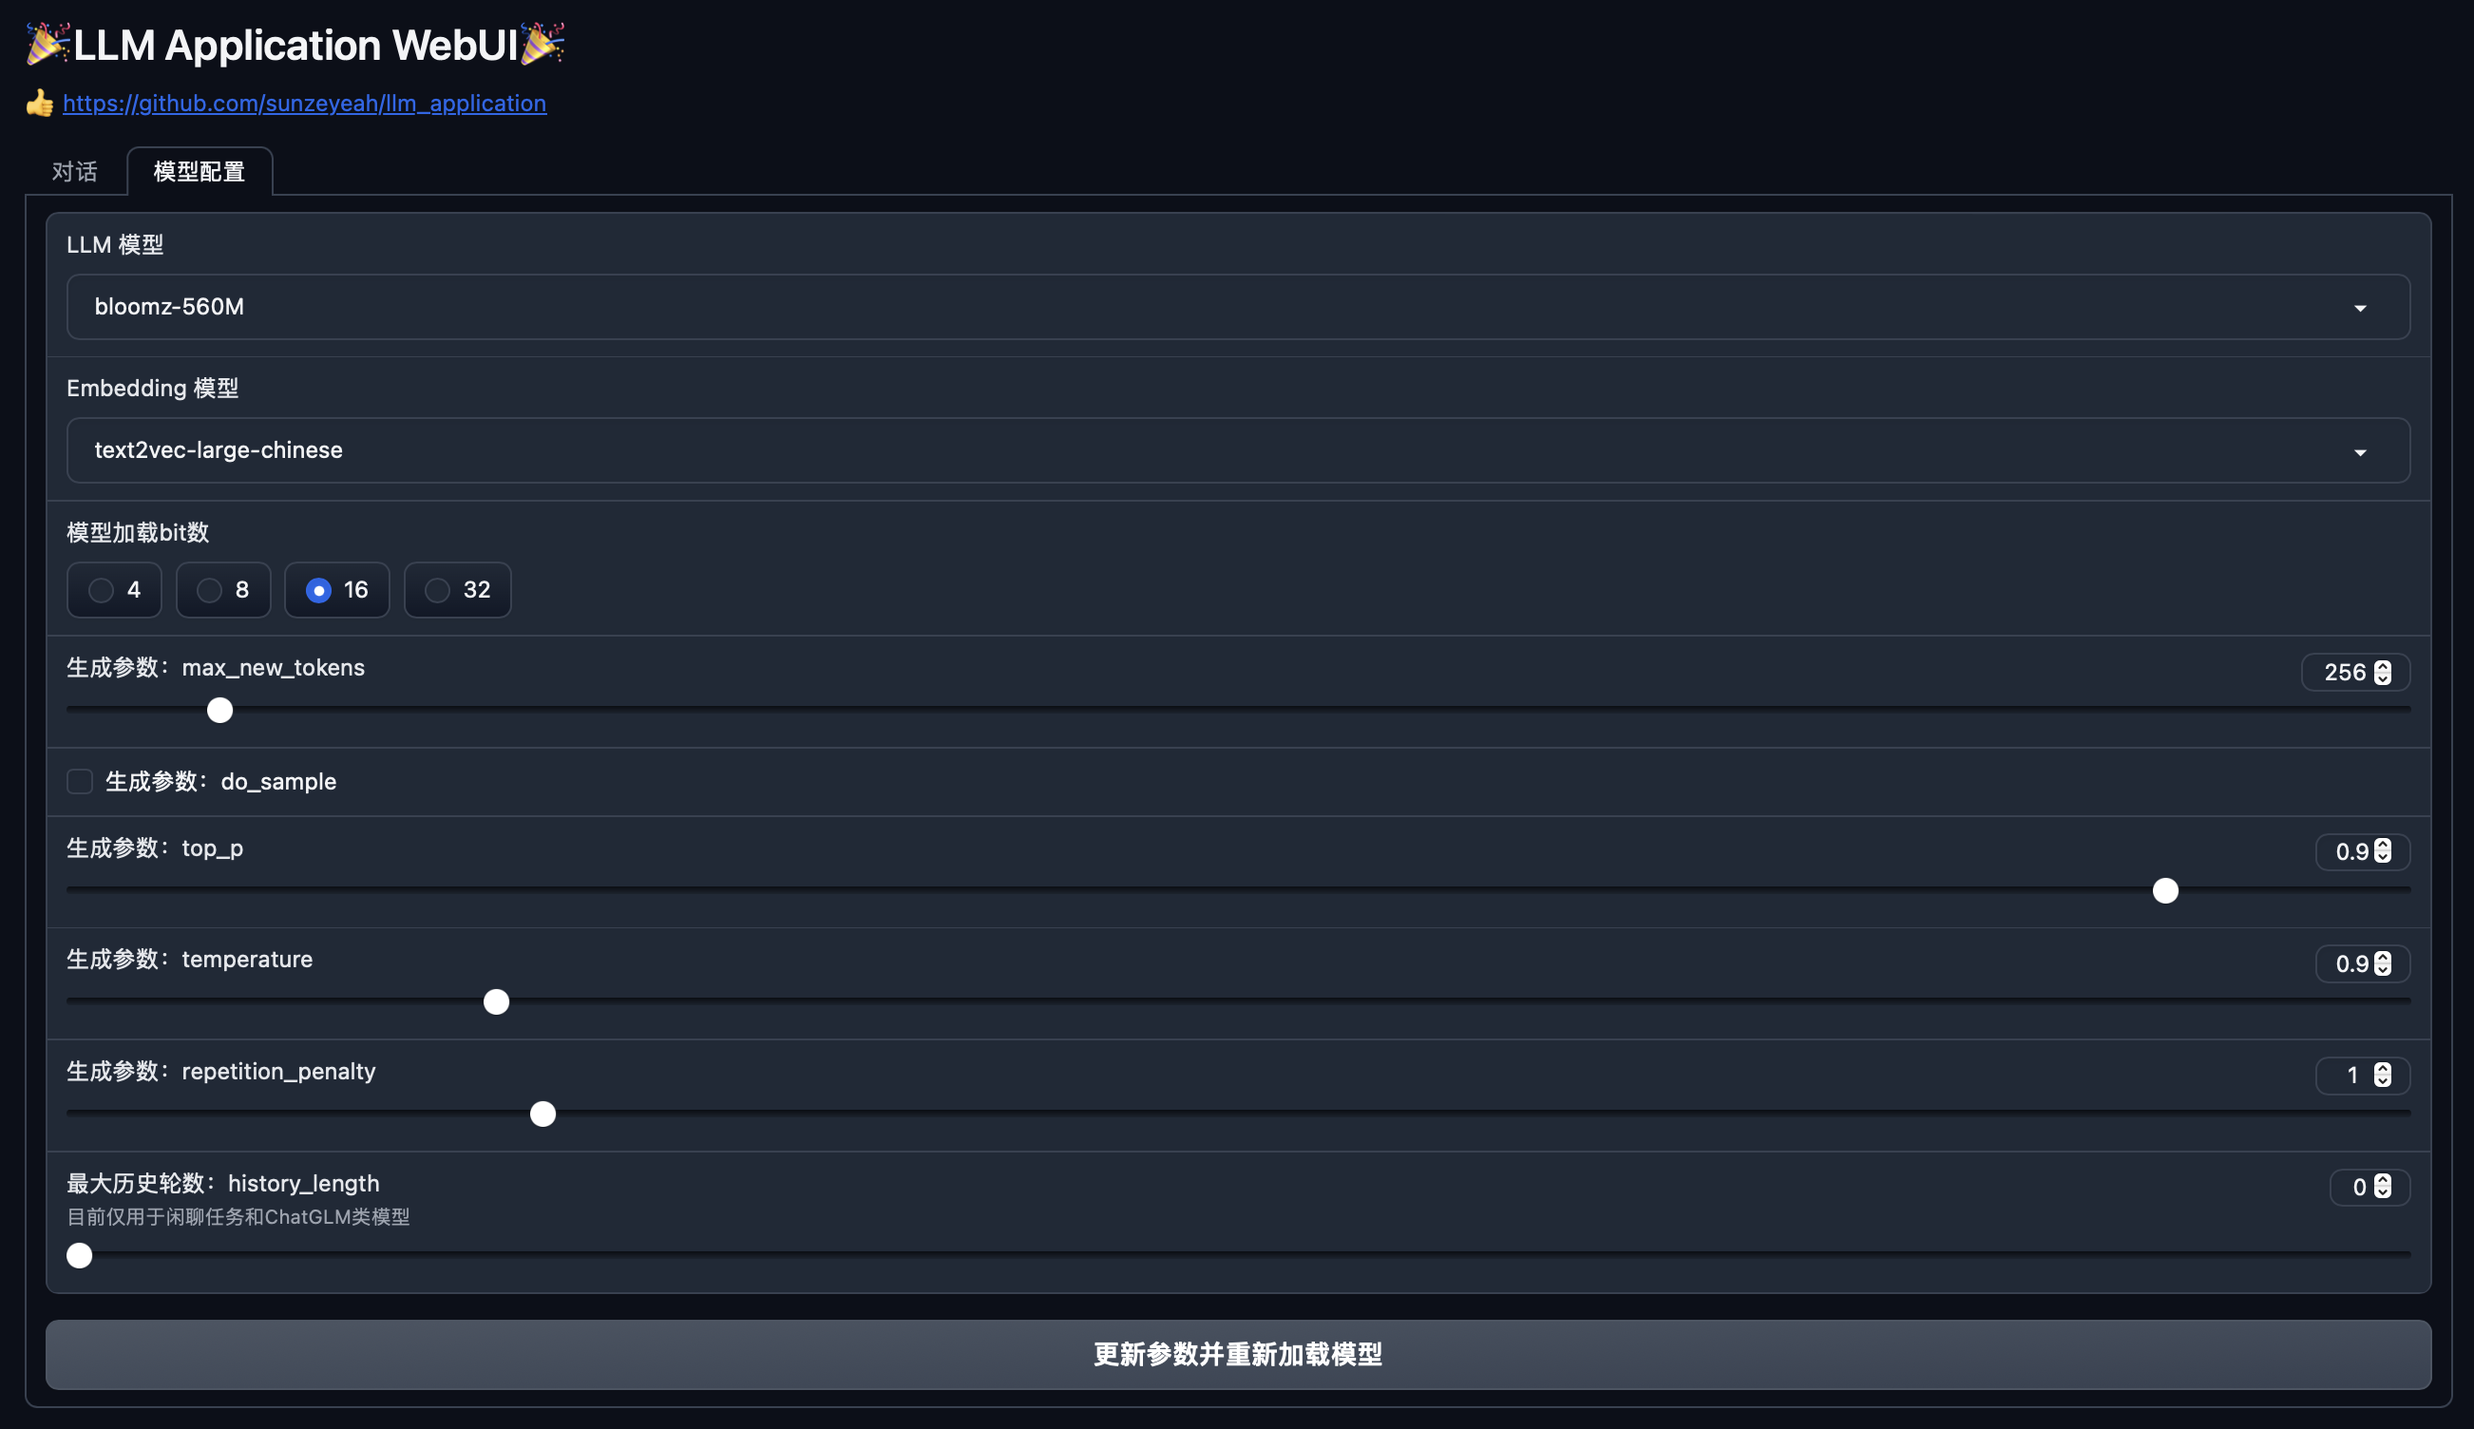
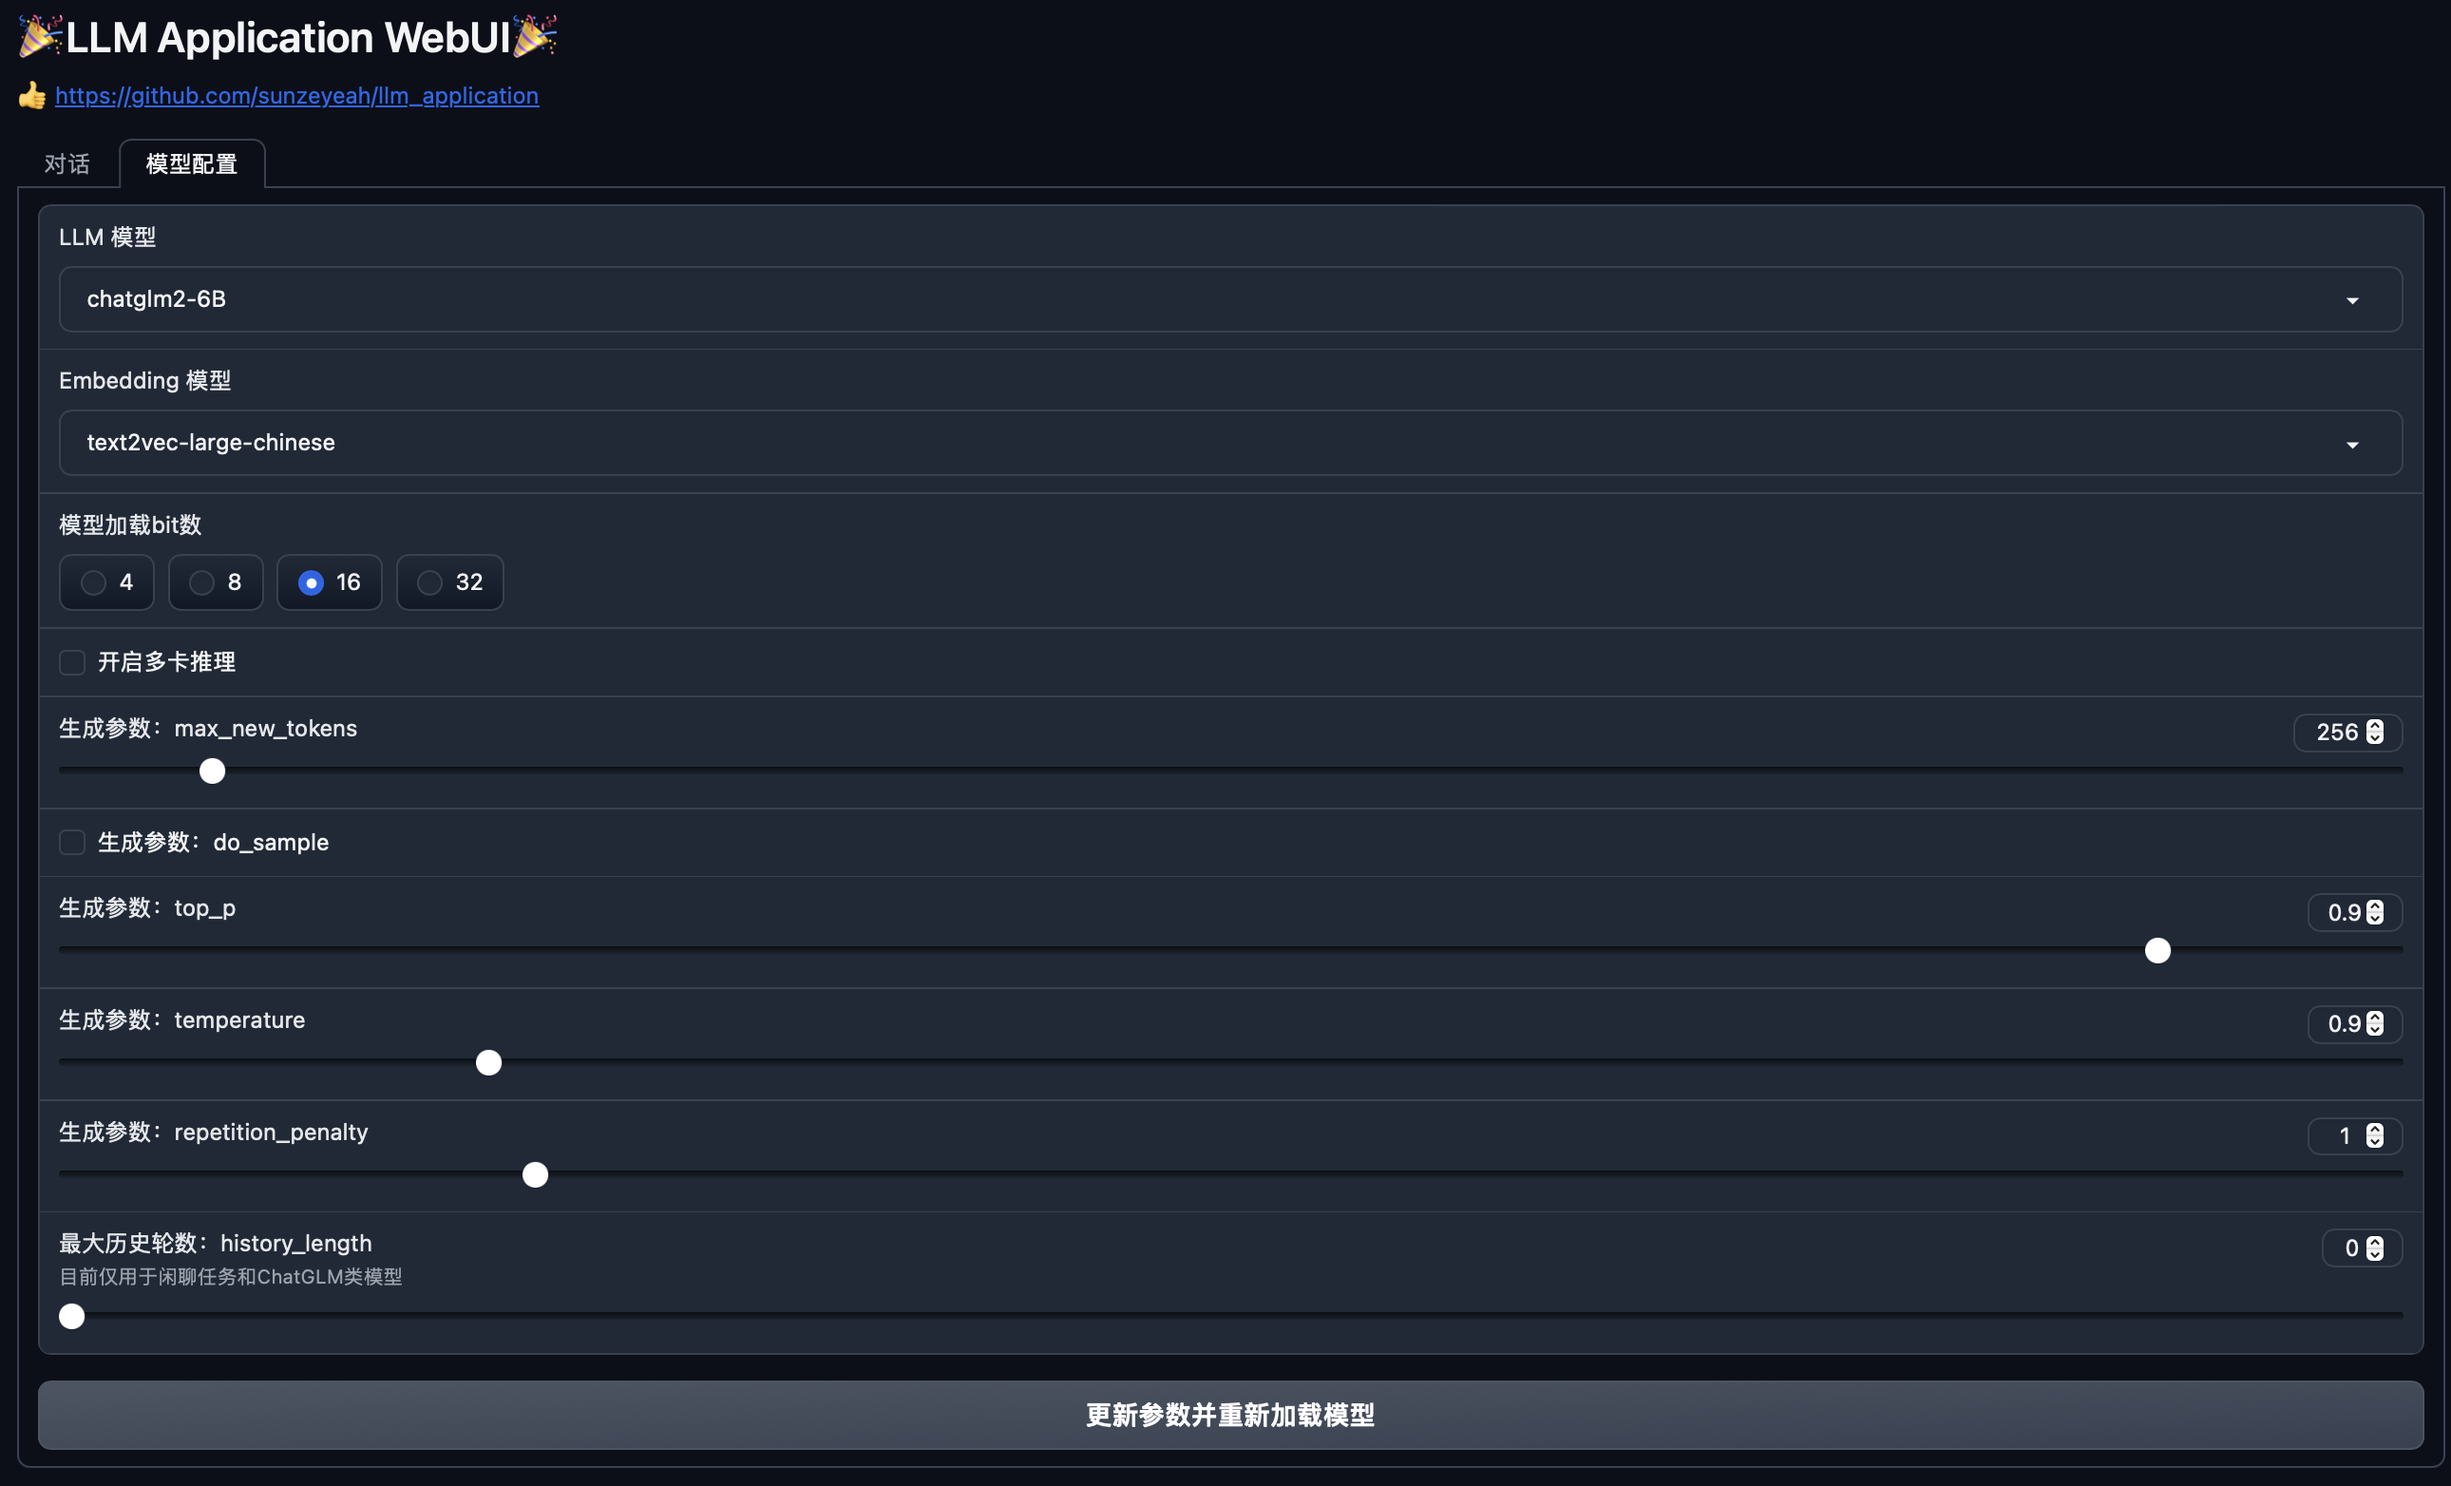
update model_config.png

Changed region(s): [[0.0, 0.0, 1.0, 1.0], [0.8682, 0.5938, 0.8992, 0.6562]]

diff --git a/src/webui.py b/src/webui.py
@@ -94,7 +94,7 @@ args = {
                   f"D:\\Data\\models\\{default_llm_model}",
     "language": "zh",
     "verbose": True,
-    "multi_card": True,
+    "multi_card": False,
     "local_rank": 0,
     "checkpoint": None,
     "bits": 16,
@@ -216,6 +216,7 @@ def update_model_params(
         llm_model: str,
         embedding_model: str,
         kb_name: str,
+        multi_card: bool,
         bits: int,
         max_length_generation: int,
         do_sample: bool,
@@ -228,6 +229,7 @@ def update_model_params(
     global llm
     global embeddings
     global vector_store
+    args.multi_card = multi_card
     args.bits = bits
     args.max_length_generation = max_length_generation
     args.do_sample = do_sample
@@ -648,6 +650,9 @@ with gr.Blocks(css=block_css, theme=gr.themes.Default(**default_theme_args)) as 
         bits_radio = gr.Radio([4, 8, 16, 32], value=args.bits,
                               label="模型加载bit数",
                               interactive=True)
+        multi_card_checkbox = gr.Checkbox(args.multi_card,
+                                          label="开启多卡推理",
+                                          interactive=True)
         max_length_generation_slider = gr.Slider(8, 4096, value=args.max_length_generation, step=1,
                                                  label="生成参数：max_new_tokens",
                                                  interactive=True)
@@ -666,9 +671,9 @@ with gr.Blocks(css=block_css, theme=gr.themes.Default(**default_theme_args)) as 
         update_model_params_button = gr.Button("更新参数并重新加载模型")
         update_model_params_button.click(update_model_params,
                                          show_progress=True,
-                                         inputs=[llm_model_dropdown, embedding_model_dropdown, kb_select_dropdown, bits_radio,
-                                                 max_length_generation_slider, do_sample_checkbox, top_p_slider, temperature_slider,
-                                                 repetition_penalty_slider, history_length_slider, chatbot],
+                                         inputs=[llm_model_dropdown, embedding_model_dropdown, kb_select_dropdown, multi_card_checkbox,
+                                                 bits_radio, max_length_generation_slider, do_sample_checkbox, top_p_slider,
+                                                 temperature_slider, repetition_penalty_slider, history_length_slider, chatbot],
                                          outputs=chatbot)
 
     demo.load(
